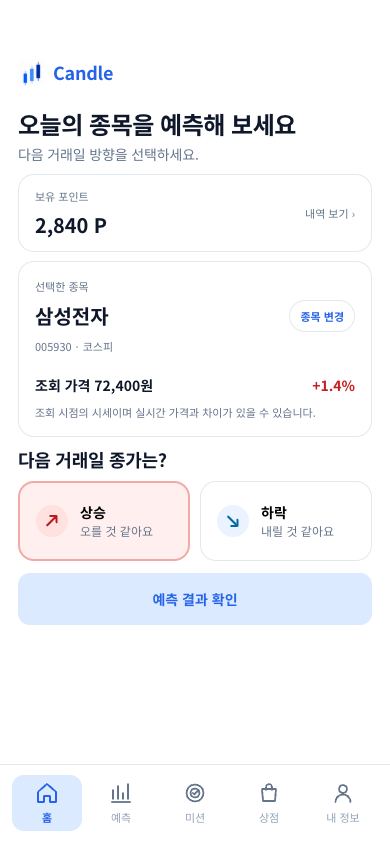
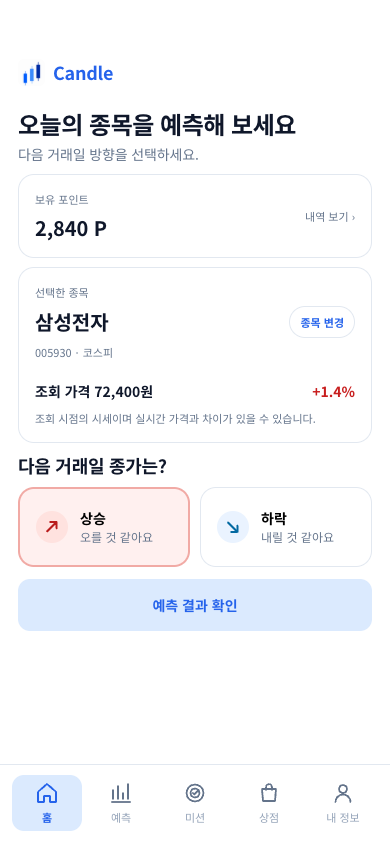
fix: refine account and reward screens with official brand assets

diff --git a/src/css/core-flow.css b/src/css/core-flow.css
@@ -195,10 +195,6 @@ input:focus-visible {
   display: none;
 }
 
-.screen-view[data-screen="confirm"] .content {
-  bottom: calc(var(--nav-height) + 203px);
-}
-
 .screen-view[data-screen="confirm"] .confirmation-empty {
   bottom: var(--nav-height);
 }
@@ -233,13 +229,14 @@ h1[tabindex="-1"]:focus {
 }
 
 .card {
+  padding: 16px;
   border: 1px solid var(--border);
   border-radius: 16px;
   background: #fff;
 }
 
 .points-card {
-  height: 78px;
+  min-height: 78px;
   margin-top: 9px;
   padding: 16px;
   display: flex;
@@ -1025,6 +1022,7 @@ h1[tabindex="-1"]:focus {
 }
 
 .summary-card {
+  margin-top: 12px;
   padding: 14px;
 }
 
@@ -1094,7 +1092,6 @@ h1[tabindex="-1"]:focus {
 }
 
 .result-card {
-  height: 183px;
   margin-top: 12px;
   padding: 16px;
 }
@@ -1116,7 +1113,6 @@ h1[tabindex="-1"]:focus {
 }
 
 .attendance-card {
-  height: 182px;
   margin-top: 10px;
   padding: 16px;
 }
@@ -1170,7 +1166,11 @@ h1[tabindex="-1"]:focus {
 }
 
 .mission-row {
-  height: 92px;
+  min-height: 92px;
+  display: grid;
+  grid-template-columns: 40px minmax(0, 1fr) auto;
+  align-items: center;
+  gap: 12px;
   margin-top: 11px;
   padding: 14px;
 }
@@ -1181,7 +1181,7 @@ h1[tabindex="-1"]:focus {
 
 .product-card {
   width: 100%;
-  height: 100px;
+  min-height: 100px;
   margin-top: 11px;
   padding: 14px;
   display: flex;
@@ -1194,21 +1194,15 @@ h1[tabindex="-1"]:focus {
 }
 
 .product-card.compact {
-  width: 216px;
+  width: 100%;
   margin-top: 11px;
 }
 
 .npay-logo {
-  width: 52px;
+  width: 56px;
   height: 56px;
-  flex: 0 0 52px;
-  display: grid;
-  place-items: center;
-  border-radius: 12px;
-  color: #089b69;
-  background: #e1f5ee;
-  font-size: 14px;
-  font-weight: 700;
+  flex: 0 0 56px;
+  object-fit: contain;
 }
 
 .product-copy {
@@ -1247,7 +1241,6 @@ h1[tabindex="-1"]:focus {
 }
 
 .request-card {
-  height: 119px;
   margin-top: 11px;
   padding: 14px;
 }
@@ -1264,20 +1257,22 @@ h1[tabindex="-1"]:focus {
 }
 
 .account-card {
-  height: 95px;
+  min-height: 100px;
+  display: flex;
+  align-items: center;
+  gap: 14px;
   margin-top: 11px;
   padding: 16px;
 }
 
 .stats-card {
-  height: 116px;
   margin-top: 11px;
   padding: 16px;
 }
 
 .stats-grid {
   display: grid;
-  grid-template-columns: repeat(3, 1fr);
+  grid-template-columns: repeat(2, minmax(0, 1fr));
   margin-top: 10px;
   text-align: center;
 }
@@ -1301,7 +1296,9 @@ h1[tabindex="-1"]:focus {
 
 .menu-row {
   width: 100%;
-  height: 48px;
+  min-height: 64px;
+  padding: 10px 0;
+  gap: 12px;
   display: flex;
   align-items: center;
   justify-content: space-between;
@@ -1476,6 +1473,12 @@ h1[tabindex="-1"]:focus {
   object-fit: contain;
 }
 
+.auth-button.apple img {
+  left: 5px;
+  width: 40px;
+  height: 40px;
+}
+
 .signup-note {
   flex-shrink: 0;
   margin: 12px 24px calc(24px + var(--safe-area-bottom));
@@ -1607,7 +1610,7 @@ h1[tabindex="-1"]:focus {
 }
 
 .payout-summary {
-  height: 76px;
+  min-height: 76px;
   margin-top: 32px;
   padding: 14px 16px;
   background: var(--primary-light);
@@ -1670,7 +1673,7 @@ h1[tabindex="-1"]:focus {
 .fraud-note {
   flex-shrink: 0;
   margin: 10px 18px calc(24px + var(--safe-area-bottom));
-  color: #ef4444;
+  color: var(--text-mid);
   font-size: 11px;
   line-height: 16px;
   text-align: center;
@@ -2092,6 +2095,7 @@ h1[tabindex="-1"]:focus {
 [hidden] { display: none !important; }
 .content > .primary-button,
 .content > .secondary-button { margin-top: 12px; }
+.content > .heading + .card { margin-top: 12px; }
 .consent-screen, .legal-screen { display: flex; flex-direction: column; }
 .legal-copy { white-space: pre-wrap; overflow-wrap: anywhere; font-size: 14px; line-height: 1.8; margin-top: 20px; }
 .loading-state, .empty-state { padding: 32px 24px; font-size: 14px; line-height: 1.7; }
@@ -2108,3 +2112,75 @@ a.primary-button { display: flex; justify-content: center; align-items: center; 
 @media (prefers-reduced-motion: reduce) {
   *, *::before, *::after { animation: none !important; transition: none !important; scroll-behavior: auto !important; }
 }
+
+
+.ui-icon {
+  width: 24px;
+  height: 24px;
+  display: block;
+  flex-shrink: 0;
+}
+
+.icon-tile {
+  width: 40px;
+  height: 40px;
+  flex: 0 0 auto;
+  display: inline-grid;
+  place-items: center;
+  border-radius: 12px;
+  color: var(--primary);
+  background: #eff5ff;
+}
+
+.icon-tile.neutral { color: var(--text-mid); background: var(--surface-subtle); }
+.icon-tile.complete { color: var(--success); background: var(--success-bg); }
+.account-avatar, .attendance-icon { width: 56px; height: 56px; border-radius: 18px; }
+.account-avatar .ui-icon, .attendance-icon .ui-icon { width: 30px; height: 30px; }
+.account-copy, .points-copy { min-width: 0; }
+.account-copy > strong { display: block; margin-top: 4px; font-size: 18px; line-height: 26px; }
+.points-copy .number { overflow-wrap: anywhere; }
+.card-heading { font-size: 13px; font-weight: 500; color: var(--text-mid); line-height: 20px; }
+.stats-grid > div { padding: 2px 8px; }
+.stats-grid > div + div { border-left: 1px solid var(--border); }
+.stats-grid .stat-label { display: flex; align-items: center; justify-content: center; gap: 5px; font-size: 12px; }
+.stat-label .ui-icon { width: 16px; height: 16px; }
+.stats-grid strong { margin-top: 6px; font-variant-numeric: tabular-nums; }
+.stats-grid strong small { margin-left: 3px; font-size: 12px; font-weight: 500; }
+.menu-label { min-width: 0; display: flex; align-items: center; gap: 12px; overflow-wrap: anywhere; }
+.menu-icon { width: 32px; height: 32px; border-radius: 10px; }
+.menu-icon .ui-icon { width: 19px; height: 19px; }
+.menu-chevron, .product-chevron { width: 16px; height: 16px; color: var(--text-light); }
+
+.screen-view[data-screen="wallet"] .points-card { min-height: 104px; background: #f7faff; }
+.points-icon { width: 48px; height: 48px; border-radius: 16px; background: var(--primary-light); }
+.wallet-transaction { margin-top: 10px; display: flex; align-items: center; gap: 12px; }
+.transaction-copy { min-width: 0; flex: 1; }
+.transaction-copy h3, .mission-copy h3 { font-size: 14px; font-weight: 700; line-height: 21px; overflow-wrap: anywhere; }
+.transaction-copy time { display: block; margin-top: 4px; color: var(--text-mid); font-size: 11px; line-height: 16px; }
+.transaction-amount { max-width: 45%; text-align: right; overflow-wrap: anywhere; }
+.transaction-amount strong { display: block; font-size: 15px; line-height: 22px; font-variant-numeric: tabular-nums; }
+.transaction-amount strong small { margin-left: 2px; font-size: 11px; }
+.transaction-amount > span { display: block; margin-top: 4px; color: var(--text-mid); font-size: 11px; line-height: 16px; }
+.transaction-amount.earned strong { color: var(--primary); }
+
+.attendance-summary { display: flex; align-items: center; justify-content: space-between; gap: 12px; }
+.attendance-count { font-size: 30px; line-height: 38px; font-weight: 700; letter-spacing: -.02em; }
+.attendance-count > span { margin-left: 4px; font-size: 16px; font-weight: 500; }
+.attendance-copy { margin-top: 12px; color: var(--text-mid); font-size: 12px; line-height: 19px; }
+#attendance { display: flex; align-items: center; justify-content: center; gap: 6px; }
+#attendance.attendance-complete { background: var(--success-bg); color: var(--success); opacity: 1; }
+#attendance .ui-icon { width: 18px; height: 18px; }
+.section-heading { display: flex; align-items: center; justify-content: space-between; gap: 12px; margin-top: 22px; }
+.section-heading .section-title { margin-top: 0; }
+.section-heading > span { flex-shrink: 0; color: var(--text-mid); font-size: 11px; }
+.mission-status { display: inline-block; margin-top: 5px; color: var(--text-mid); font-size: 11px; line-height: 18px; }
+.mission-status.complete { color: var(--success); }
+.mission-reward { color: var(--primary); font-size: 15px; font-weight: 700; white-space: nowrap; }
+.mission-reward small { margin-left: 2px; font-size: 11px; }
+.record-heading { display: flex; align-items: center; gap: 10px; }
+.record-heading > strong { min-width: 0; flex: 1; font-size: 14px; line-height: 21px; overflow-wrap: anywhere; }
+.record-heading .badge { flex-shrink: 0; }
+.record-date { margin-top: 12px; color: var(--text-mid); font-size: 11px; }
+.record-points { font-size: 16px; font-weight: 700; }
+.empty-state { text-align: center; color: var(--text-mid); }
+.empty-icon { width: 52px; height: 52px; margin-bottom: 12px; background: var(--surface-subtle); color: var(--text-mid); }

diff --git a/src/js/core-flow.js b/src/js/core-flow.js
@@ -1,3 +1,4 @@
+import { uiIcon } from './ui/icons.mjs';
 import { pages, screens } from './screens/index.mjs';
 import { ApiError, errorMessage } from './api-client.mjs';
 import { createCandleService, resolveConfig, validateSnapshot } from './candle-service.mjs';
@@ -69,7 +70,7 @@ const isOpen = () =>
 const button = (text, route, cls = 'primary-button', disabled = false) =>
   `<button class="${cls}" type="button" data-route="${route}"${disabled ? ' disabled' : ''}>${e(text)}</button>`;
 const empty = (text, route = 'home', action = '홈으로') =>
-  `<div class="empty-state"><p>${e(text)}</p>${button(action, route, 'secondary-button')}</div>`;
+  `<div class="empty-state"><span class="icon-tile empty-icon">${uiIcon('inbox')}</span><p>${e(text)}</p>${button(action, route, 'secondary-button')}</div>`;
 const statusBar = () => '<div class="status-bar" aria-hidden="true"></div>';
 const header = () =>
   `<header class="app-header"><div class="brand"><img src="${icon('candle-logo.png')}" alt=""><span>Candle</span></div></header>`;
@@ -85,8 +86,8 @@ const more = (kind) =>
     : '';
 const shell = (name, body, active = 'home') =>
   `<section class="screen-view" data-screen="${name}">${statusBar()}${header()}<div class="content">${body}</div>${nav(active)}</section>`;
-const pointsCard = () =>
-  `<section class="card points-card"><div><p class="card-label">보유 포인트</p><p class="number">${n(data.wallet.balance)} P</p></div>${button('내역 보기 ›', 'wallet', 'link-button')}</section>`;
+const pointsCard = (showHistory = true) =>
+  `<section class="card points-card"><div class="points-copy"><p class="card-label">보유 포인트</p><p class="number">${n(data.wallet.balance)} P</p></div>${showHistory ? button('내역 보기 ›', 'wallet', 'link-button') : `<span class="icon-tile points-icon">${uiIcon('coin')}</span>`}</section>`;
 const ticketSummary = () =>
   `<span class="ticket-breakdown"><span>기본 무료 <strong>${n(data.tickets.free)}회</strong></span><span>광고 예측권 <strong>${n(data.tickets.ad)}장</strong></span></span>`;
 const ticketCard = () =>
@@ -99,7 +100,7 @@ function stockCard(changeable = true) {
   return `<section class="card stock-card"><div class="stock-top"><div><p class="card-label">선택한 종목</p><p class="stock-name">${e(s.name)}</p><p class="card-label">${e(s.code)} · ${e(s.market)}</p></div>${changeable ? '<button class="stock-change" type="button" data-stock-picker>종목 변경</button>' : ''}</div><div class="quote-row"><span>조회 가격 ${e(s.price)}</span><span class="${s.change.startsWith('-') ? 'down-text' : 'up-text'}">${e(s.change)}</span></div><p class="card-label">조회 시점의 시세이며 실시간 가격과 차이가 있을 수 있습니다.</p></section>`;
 }
 function productCard(p, compact = false) {
-  return `<${compact ? 'div' : 'button'} class="product-card${compact ? ' compact' : ''}"${compact ? '' : ` type="button" data-product="${e(p.id)}"${p.available ? '' : ' disabled'}`}><span class="npay-logo">Npay</span><span class="product-copy"><small>${e(p.title)}</small><strong>${n(p.amount)}원권</strong><span>${n(p.points)}P${p.available ? '' : ' · 준비 중'}</span></span></${compact ? 'div' : 'button'}>`;
+  return `<${compact ? 'div' : 'button'} class="product-card${compact ? ' compact' : ''}"${compact ? '' : ` type="button" data-product="${e(p.id)}"${p.available ? '' : ' disabled'}`}><img class="npay-logo" src="${icon('npay-symbol.svg')}" width="56" height="56" alt="네이버페이"><span class="product-copy"><small>${e(p.title)}</small><strong>${n(p.amount)}원권</strong><span>${n(p.points)}P${p.available ? '' : ' · 준비 중'}</span></span>${compact ? '' : uiIcon('chevron', 'product-chevron')}</${compact ? 'div' : 'button'}>`;
 }
 function notify(message) {
   document.querySelector('.toast')?.remove();

diff --git a/core-flow.html b/core-flow.html
@@ -10,7 +10,7 @@
   <link rel="preconnect" href="https://fonts.gstatic.com" crossorigin>
   <link href="https://fonts.googleapis.com/css2?family=DM+Mono:wght@500&family=Noto+Sans+KR:wght@400;500;700&display=swap" rel="stylesheet">
   <link rel="stylesheet" href="./src/css/base/reset.css">
-  <link rel="stylesheet" href="./src/css/core-flow.css?v=20261011-release-2">
+  <link rel="stylesheet" href="./src/css/core-flow.css?v=20261011-release-3">
   <script src="./config.js"></script>
 </head>
 <body>
@@ -21,6 +21,6 @@
   </main>
 
   <noscript>Candle을 이용하려면 JavaScript를 켜주세요.</noscript>
-  <script type="module" src="./src/js/core-flow.js?v=20261011-release-2"></script>
+  <script type="module" src="./src/js/core-flow.js?v=20261011-release-3"></script>
 </body>
 </html>

diff --git a/docs/RELEASE_PLAN.md b/docs/RELEASE_PLAN.md
@@ -42,6 +42,18 @@
 - [모바일 예측](screenshots/prediction-up-mobile.png), [모바일 로그인](screenshots/signup-mobile.png), [모바일 홈](screenshots/home-mobile.png)을 직접 검토했다.
 - [README](../README.md)에 화면별 코드, 백엔드 연결 순서, API 계약, 인증·원장 처리, 필요한 담당자별 결정사항과 출시 체크리스트를 상세히 기록했다.
 
+## 화면 스타일과 브랜드 자산 보완 (2026-10-11)
+
+- 시작 기준: 단위·계약 29개, 브라우저 468개 및 원격 CI 통과.
+- 실제 캡처에서 포인트 내역의 여백 누락, 2개 통계 항목에 적용된 3열 레이아웃, 아이콘 없는 미션·메뉴, 글자로 대체한 Npay 로고를 확인했다.
+- 공식 네이버페이 SVG를 원본 그대로 반영했다. 다운로드 출처와 운영 전 제휴 검수 확인은 [브랜드 자산 기록](BRAND_ASSETS.md)에 남겼다.
+- 내 정보에는 아바타·2열 통계·메뉴 아이콘, 포인트 내역에는 적립/사용 아이콘·날짜·금액 구분, 미션에는 달력·완료 아이콘을 추가했다. 원래의 파란색, 얇은 선, 둥근 카드 스타일을 유지한다.
+- 교환 내역·예측 결과·약관·빈 내역 화면에도 공통 아이콘을 사용한다. 고정 높이로 내용이 넘치던 카드와 지급 요약을 내용에 맞게 조정하고 확인 화면의 카드 간격을 정리했다. 예측 확인 화면에서 사용하지 않는 하단 패널 공간 203px을 제거했다.
+- Apple 로그인 아이콘의 원본 내부 여백 때문에 실제 도형이 너무 작게 보이는 문제를 CSS 표시 크기로 조정했다. 이미지 자체는 변경하지 않았다.
+- 첫 회귀 검사에서 `AssertionError: wallet debit and four ledger entries persist`가 발생했다. 캡처에 잔액 2,835P와 거래 4건이 정상 표시됨을 확인했고, 이전 DOM 구조를 세던 검사를 새 거래 목록 선택자로 수정했다.
+- 최종 검사: 단위·계약 **29개**, 브라우저 **474개**, JavaScript 오류 **0개**, 포맷·빌드 통과. 마지막 아이콘 크기 조정 후 운영 빌드와 브라우저 474개를 다시 통과했다. 카드 여백, 두 통계의 정렬, 완료 미션, 적립/사용 표시, 공식 로고 로딩·원본 비율을 추가 검증했다.
+- 직접 확인한 캡처: [내 정보](screenshots/profile-mobile.png), [포인트 내역](screenshots/wallet-mobile.png), [미션](screenshots/missions-mobile.png), [상점](screenshots/shop-mobile.png), [교환 내역](screenshots/history-mobile.png), [결과](screenshots/result-mobile.png), [약관 메뉴](screenshots/settings-mobile.png).
+
 ## 실제 출시 승인에 필요한 외부 작업
 
 - 명세의 인증·약관·예측·포인트·광고·교환 API를 서버에 구현하고 스테이징에서 검증.

diff --git a/docs/BRAND_ASSETS.md b/docs/BRAND_ASSETS.md
@@ -1,0 +1,21 @@
+# 브랜드와 화면 아이콘
+
+## 네이버페이
+
+2026-10-11에 [네이버페이 개발자센터 공식 로고 가이드](https://developers.pay.naver.com/design/brand/logo)에서 제공하는 파일을 확인했다. 종전의 일반 텍스트 `Npay`를 공식 심볼 이미지로 교체했다.
+
+- 공식 다운로드: https://developers.pay.naver.com/img/logo/zip/npayLogos.zip
+- 압축 파일 내 원본: `symbol/symbol_rd_sq_npaygr_large.svg`
+- 프로젝트 파일: `src/assets/core-flow/npay-symbol.svg`
+- 원본 크기: 140 × 140. 화면에서는 56 × 56으로 비율을 유지해 표시한다.
+- 원본 경로·색상·여백을 수정하지 않았으며, 필터·자르기·텍스트 재현을 사용하지 않는다.
+- 사용 위치: 포인트 샵의 네이버페이 교환 상품, 상품 교환 확인.
+- [활용 가이드](https://developers.pay.naver.com/design/brand/usage)와 [포인트 제휴 로고 사용 안내](https://npayad.naver.com/faqDetail/46)에 따라, 실제 출시 전 운영 담당자가 제휴 계약과 필요한 로고 검수를 확인해야 한다. 이 저장소의 이미지 반영은 제휴·검수 완료를 의미하지 않는다.
+
+향후 네이버페이 외 상품을 추가하면 상품 제공자를 식별할 수 있는 API 필드를 합의하고 해당 공식 자산을 매핑해야 한다. 현재 카탈로그와 상품 로고는 네이버페이 상품을 기준으로 한다.
+
+## 인터페이스 아이콘
+
+`src/js/ui/icons.mjs`는 이 앱을 위해 작성한 SVG 아이콘이다. 기존 하단 내비게이션과 동일한 24px viewBox, 1.8px 선 두께, 둥근 선 끝을 사용한다. 텍스트를 대신하는 버튼으로 쓰지 않고, 항상 화면의 제목·메뉴·상태 설명과 함께 표시한다. 장식용 SVG에는 `aria-hidden="true"`, `focusable="false"`를 지정했다.
+
+기본 색은 Candle의 파란색과 연한 배경이다. 완료 상태에만 기존 초록색을 사용하고, 지출은 중립색과 ‘사용’ 문구로 구분한다. 순위·배지·달력 등 서버 데이터에 없는 성과를 꾸며서 표시하지 않는다.

diff --git a/README.md b/README.md
@@ -83,6 +83,7 @@ CANDLE_API_BASE_URL=https://api.example.com/api/v1 npm run build
 | [core-flow.html](core-flow.html) | 앱의 HTML 진입점 |
 | [src/js/screens/index.mjs](src/js/screens/index.mjs) | 라우트·제목·화면 모듈 등록 |
 | [src/js/core-flow.js](src/js/core-flow.js) | 세션 보호, 공통 컴포넌트, 이벤트, 변경 요청과 새로고침 |
+| [src/js/ui/icons.mjs](src/js/ui/icons.mjs) | 기존 내비게이션과 선 굵기를 맞춘 공통 SVG 아이콘 |
 | [src/js/ui/results-list.mjs](src/js/ui/results-list.mjs) | 결과·예측 내역이 공유하는 목록 |
 | [src/js/candle-service.mjs](src/js/candle-service.mjs) | 백엔드 경로, 응답 검증, 종목 DTO 변환 |
 | [src/js/api-client.mjs](src/js/api-client.mjs) | 쿠키·CSRF·멱등 키·타임아웃·오류 코드 |
@@ -90,6 +91,8 @@ CANDLE_API_BASE_URL=https://api.example.com/api/v1 npm run build
 | `src/js/demo-service.mjs`, `prediction-ledger.mjs` | 로컬 개발 전용 어댑터와 원장; 운영 산출물 제외 |
 
 내부 `demo` 식별자와 저장 키는 기존 로컬 기록 호환용입니다. 서비스 화면에는 해당 이름이나 화면 선택 패널을 표시하지 않습니다. 과거 `pages/`, `src/js/services/api.js`는 현재 앱 경로에 연결되지 않습니다. 구형 `USE_MOCK` 설정을 바꿔도 이 앱에는 적용되지 않습니다.
+
+네이버페이 상품 로고는 공식 배포 SVG를 사용합니다. 출처·원본 파일·사용 위치와 출시 전 제휴 검수 확인은 [브랜드 자산 기록](docs/BRAND_ASSETS.md)에 정리했습니다.
 
 ## 3. 백엔드 팀: 먼저 확인할 구현 범위
 
